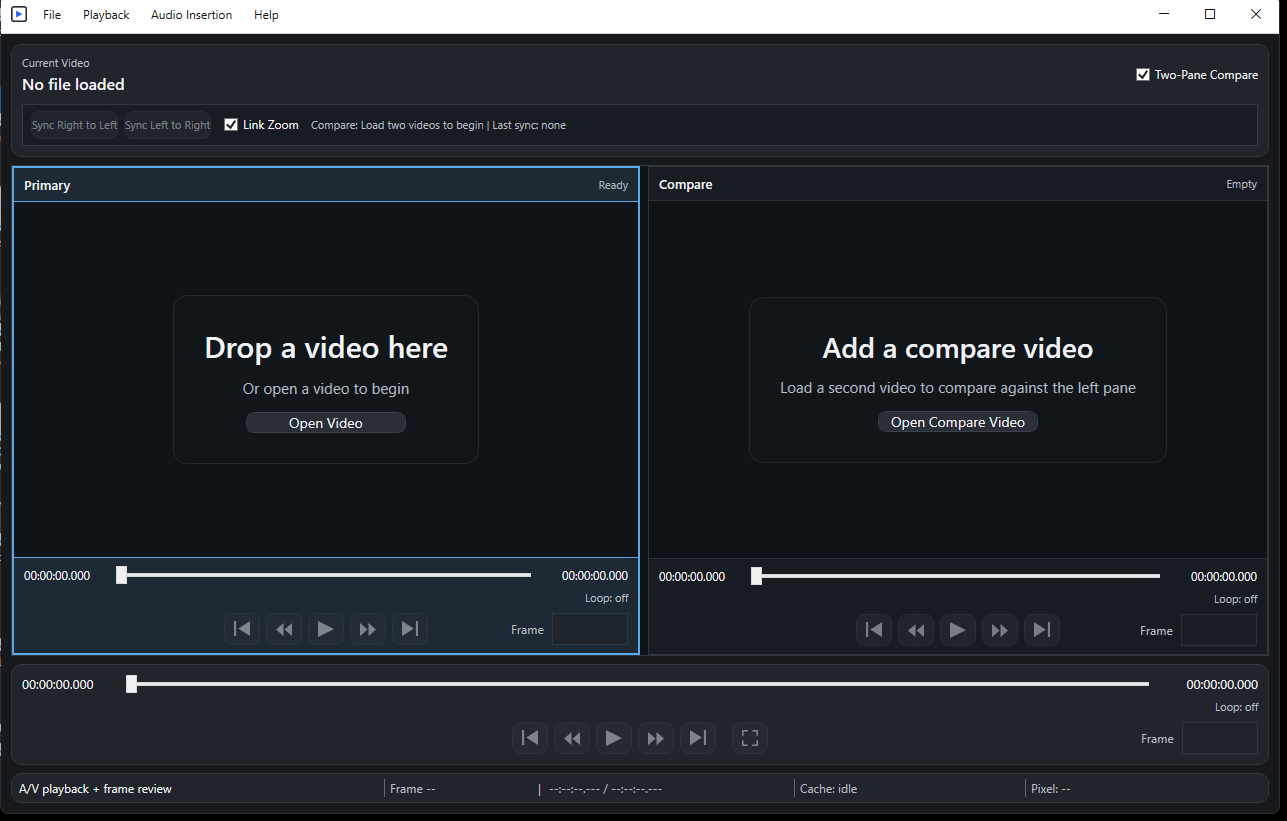
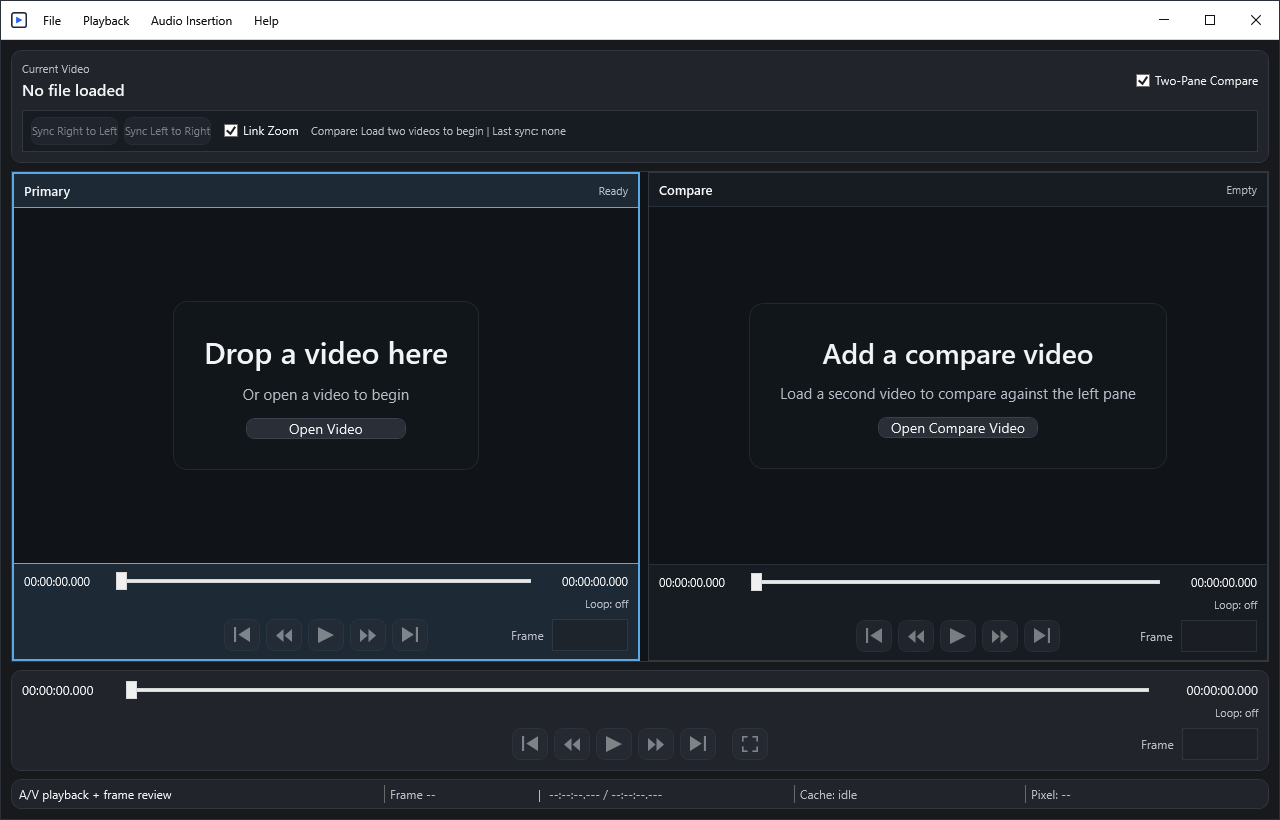
docs: refresh 1.8.4 Windows screenshots
Why:
- The posted Windows README/wiki captures had crop issues and needed clean WPF 1.8.4 assets.

What:
- Replaced the Windows main and compare screenshots with refreshed 1280x820 WPF app captures.
- Updated the wiki validation note to identify the refreshed Windows capture source.

Validation:
- powershell -NoProfile -ExecutionPolicy Bypass -File .\scripts\Build-FramePlayer.ps1 -Configuration Release -Platform x64
- Refreshed screenshots from the built WPF app surface and verified both PNGs are 1280x820.
- git diff --check

diff --git a/docs/wiki/Validation.md b/docs/wiki/Validation.md
@@ -24,4 +24,4 @@ Windows stable remains `v1.8.4`. Its WPF source path, build path, tests, runtime
 
 ## Screenshot Validation
 
-The checked-in screenshots in `docs/assets/screenshots/` are real app screenshots. The macOS captures were refreshed from the installed app during this documentation pass. The Windows captures were taken from clean existing Windows app screenshots in the developer folder. No loaded-video Windows screenshots were available locally for this pass.
+The checked-in screenshots in `docs/assets/screenshots/` are real app screenshots. The macOS captures were refreshed from the installed app during this documentation pass. The Windows captures were refreshed from the built WPF `v1.8.4` app surface at 1280x820. No loaded-video Windows screenshots were available locally for this pass.
